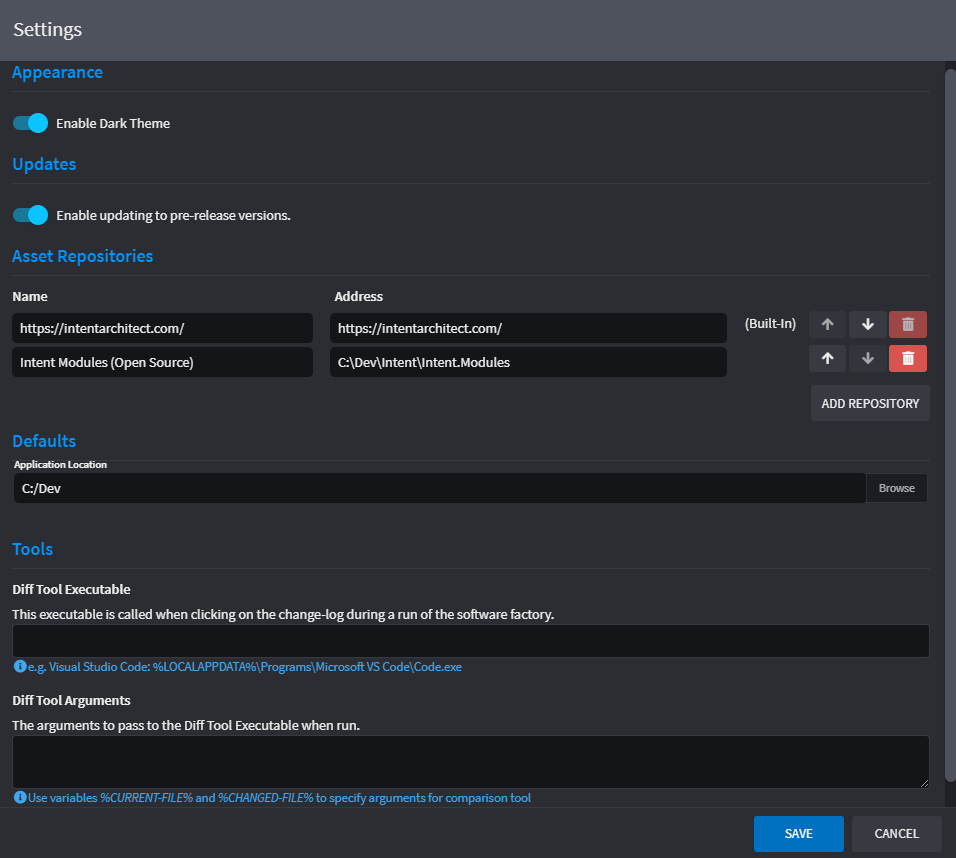
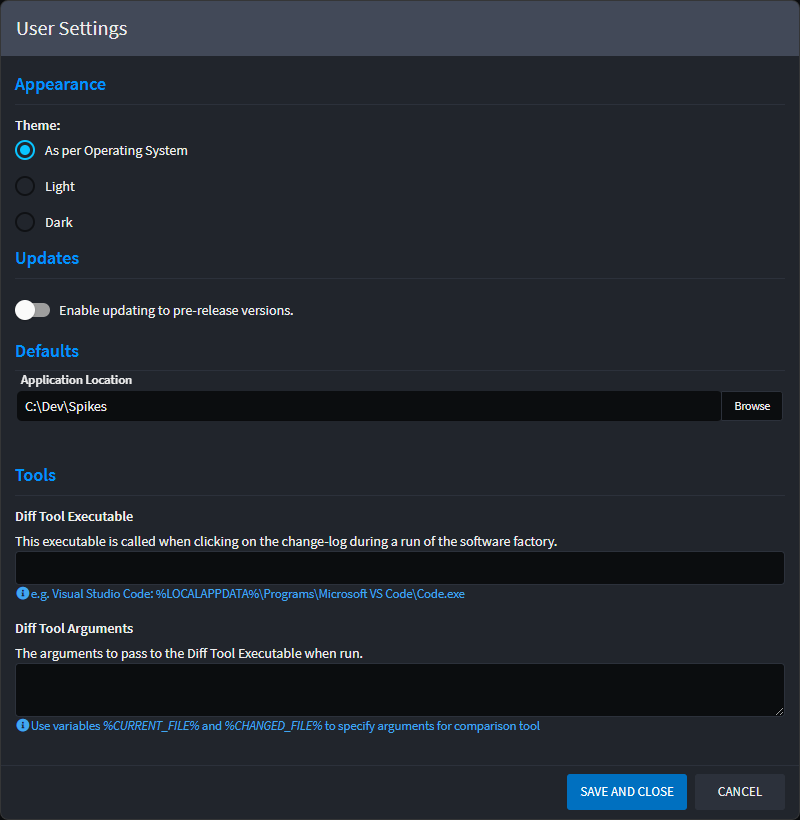
Application  Development Done

Changed region(s): [[0.0, 0.0, 1.0, 0.9451], [0.6875, 0.9451, 0.9688, 1.0], [0.7812, 0.3659, 0.875, 0.4268]]

diff --git a/articles/application-development/user-interface/how-to-change-user-settings/how-to-change-user-settings.md b/articles/application-development/user-interface/how-to-change-user-settings/how-to-change-user-settings.md
@@ -10,23 +10,13 @@ To access the user settings:
 
 ![User Settings](images/user-settings.png)
 
-## Dark theme
+## Theme
 
 Choose between dark theme or light. By default Intent Architect will use your operating systems' theme settings.
 
 ## Updates
 
 From time to time, Intent Architect may release pre-release versions of the product. To be notified and able to update to a new pre-release, enable the `Enable updating to pre-release versions` toggle. It is recommended that you keep this setting disabled as pre-releases can be less stable than official ones.
-
-## Asset Repositories
-
-Asset Repositories represent the default available repositories that are searched when discovering Modules and Application Templates. By default the Intent Architect server is available [https://intentarchitect.com], which hosts all the official Open Source modules.
-
-Repositories can also point to local folders and network locations, and can be overridden at the Intent Solution level and Application level. Local folders need to be fully qualified for User Settings, but can be relative locations for Intent Solutions and Applications.
-
-To add another repository, click the `ADD REPOSITORY` button below the list of repositories.
-
-Repositories can be reordered, with the top one being the default. The order of the list also determines the order in which repositories will be searched when restoring modules in an Application. Changing the order can be done by clicking the up and down arrows in line with the repository.
 
 ## Default Application locations
 
